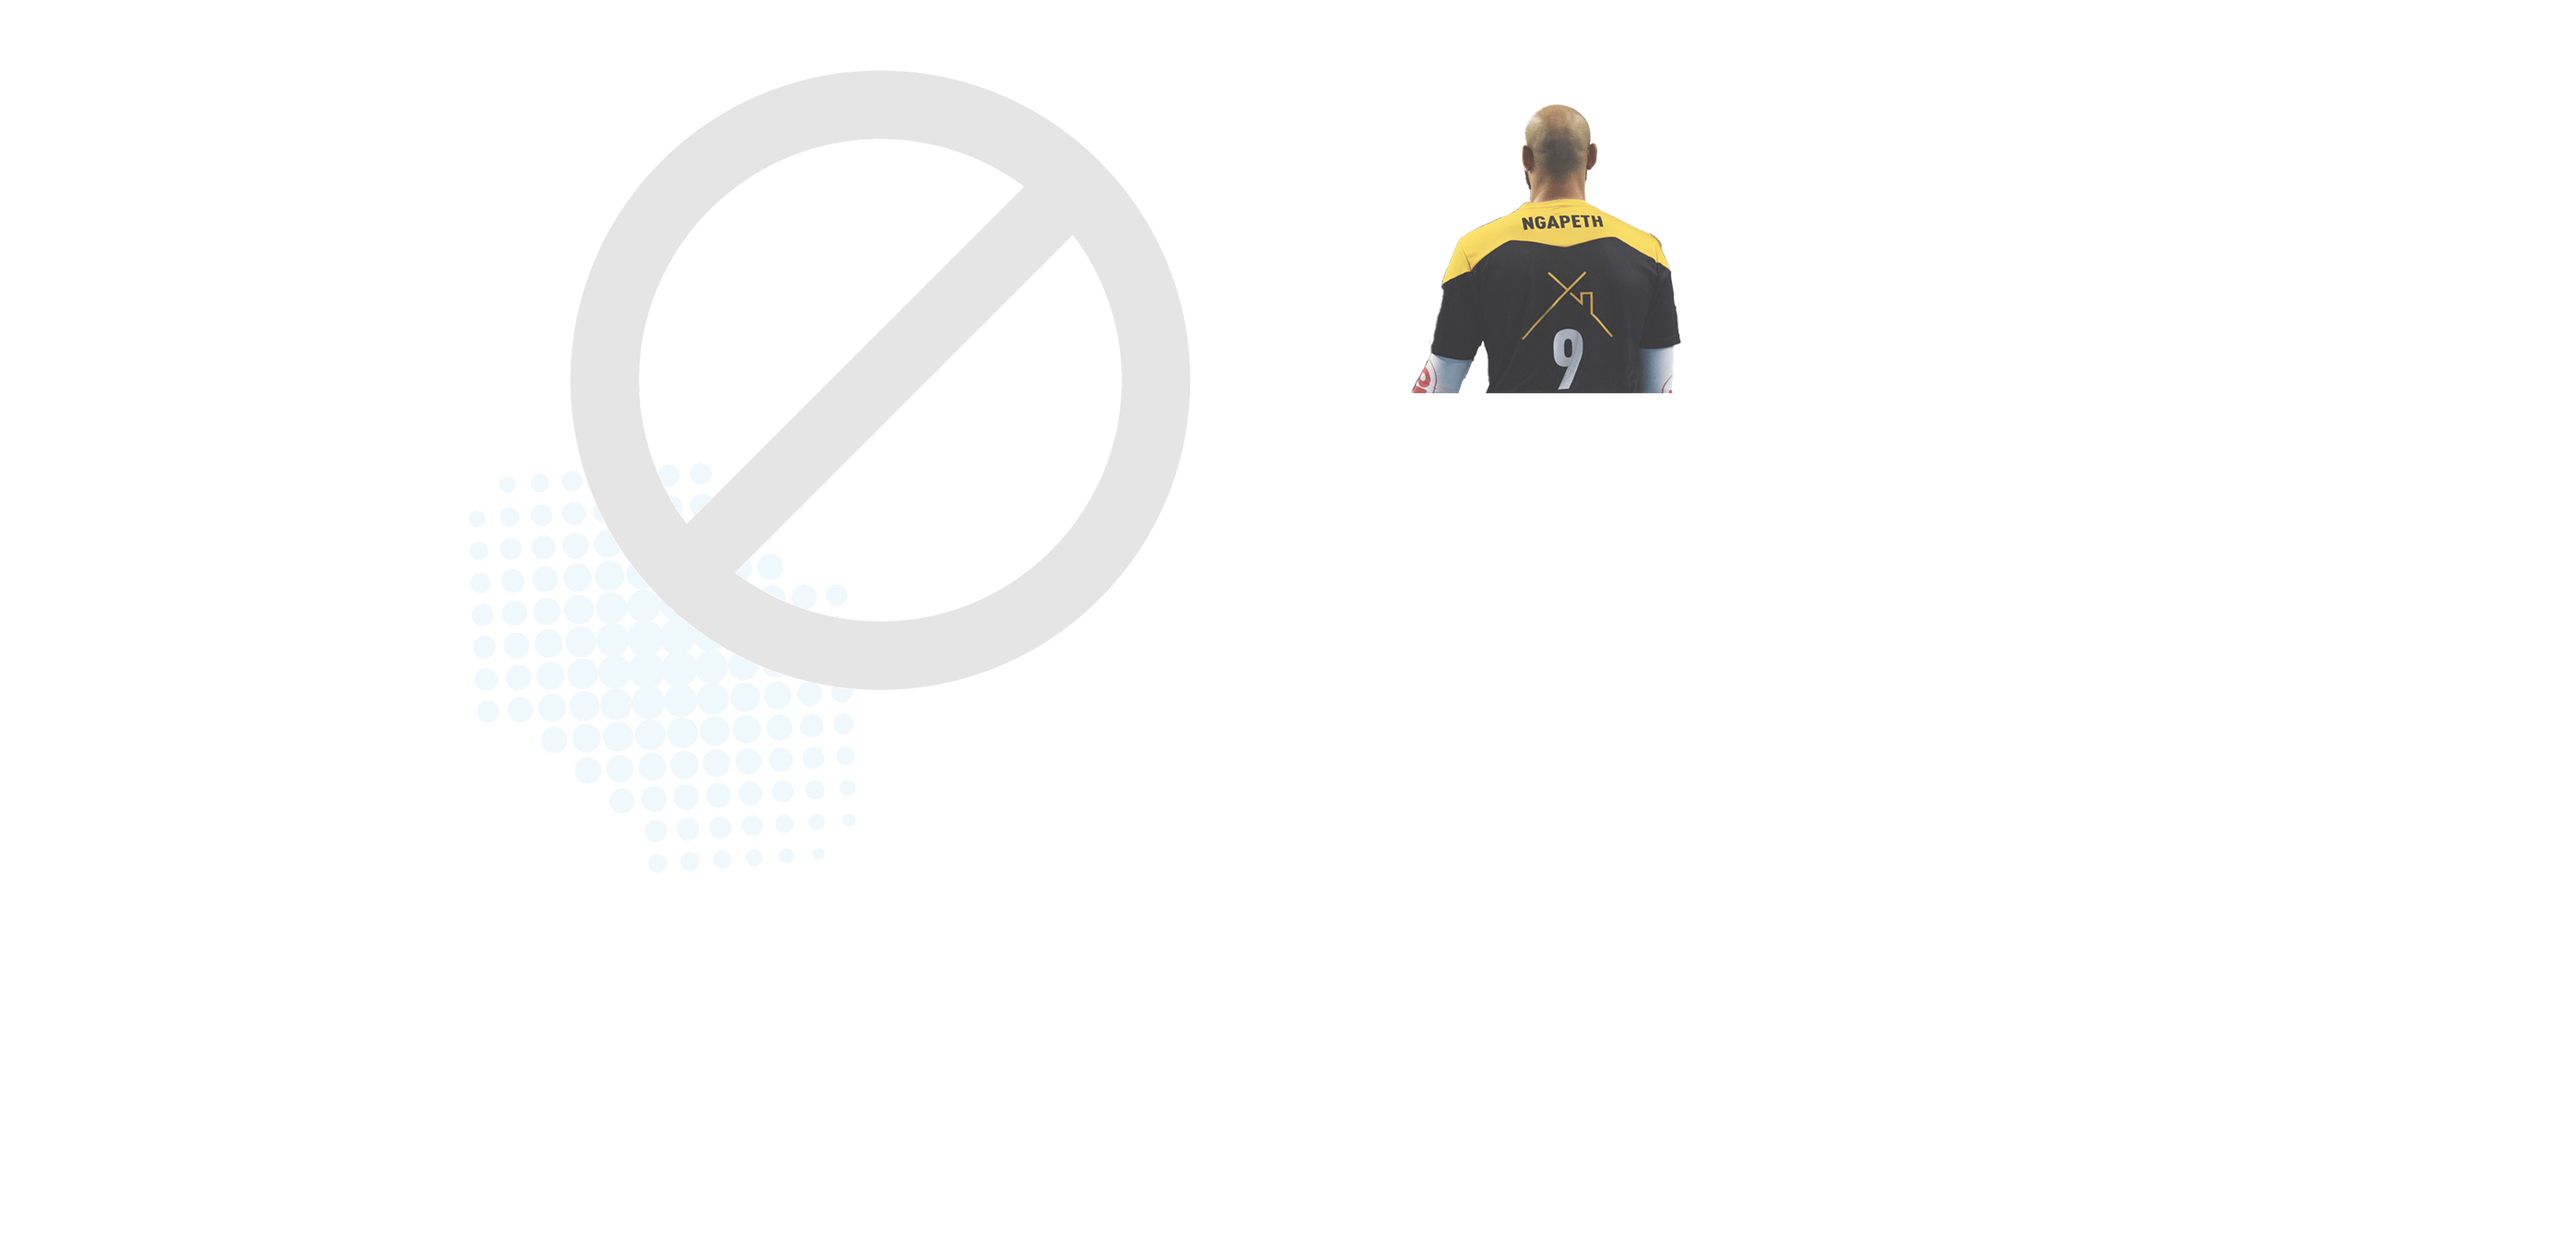
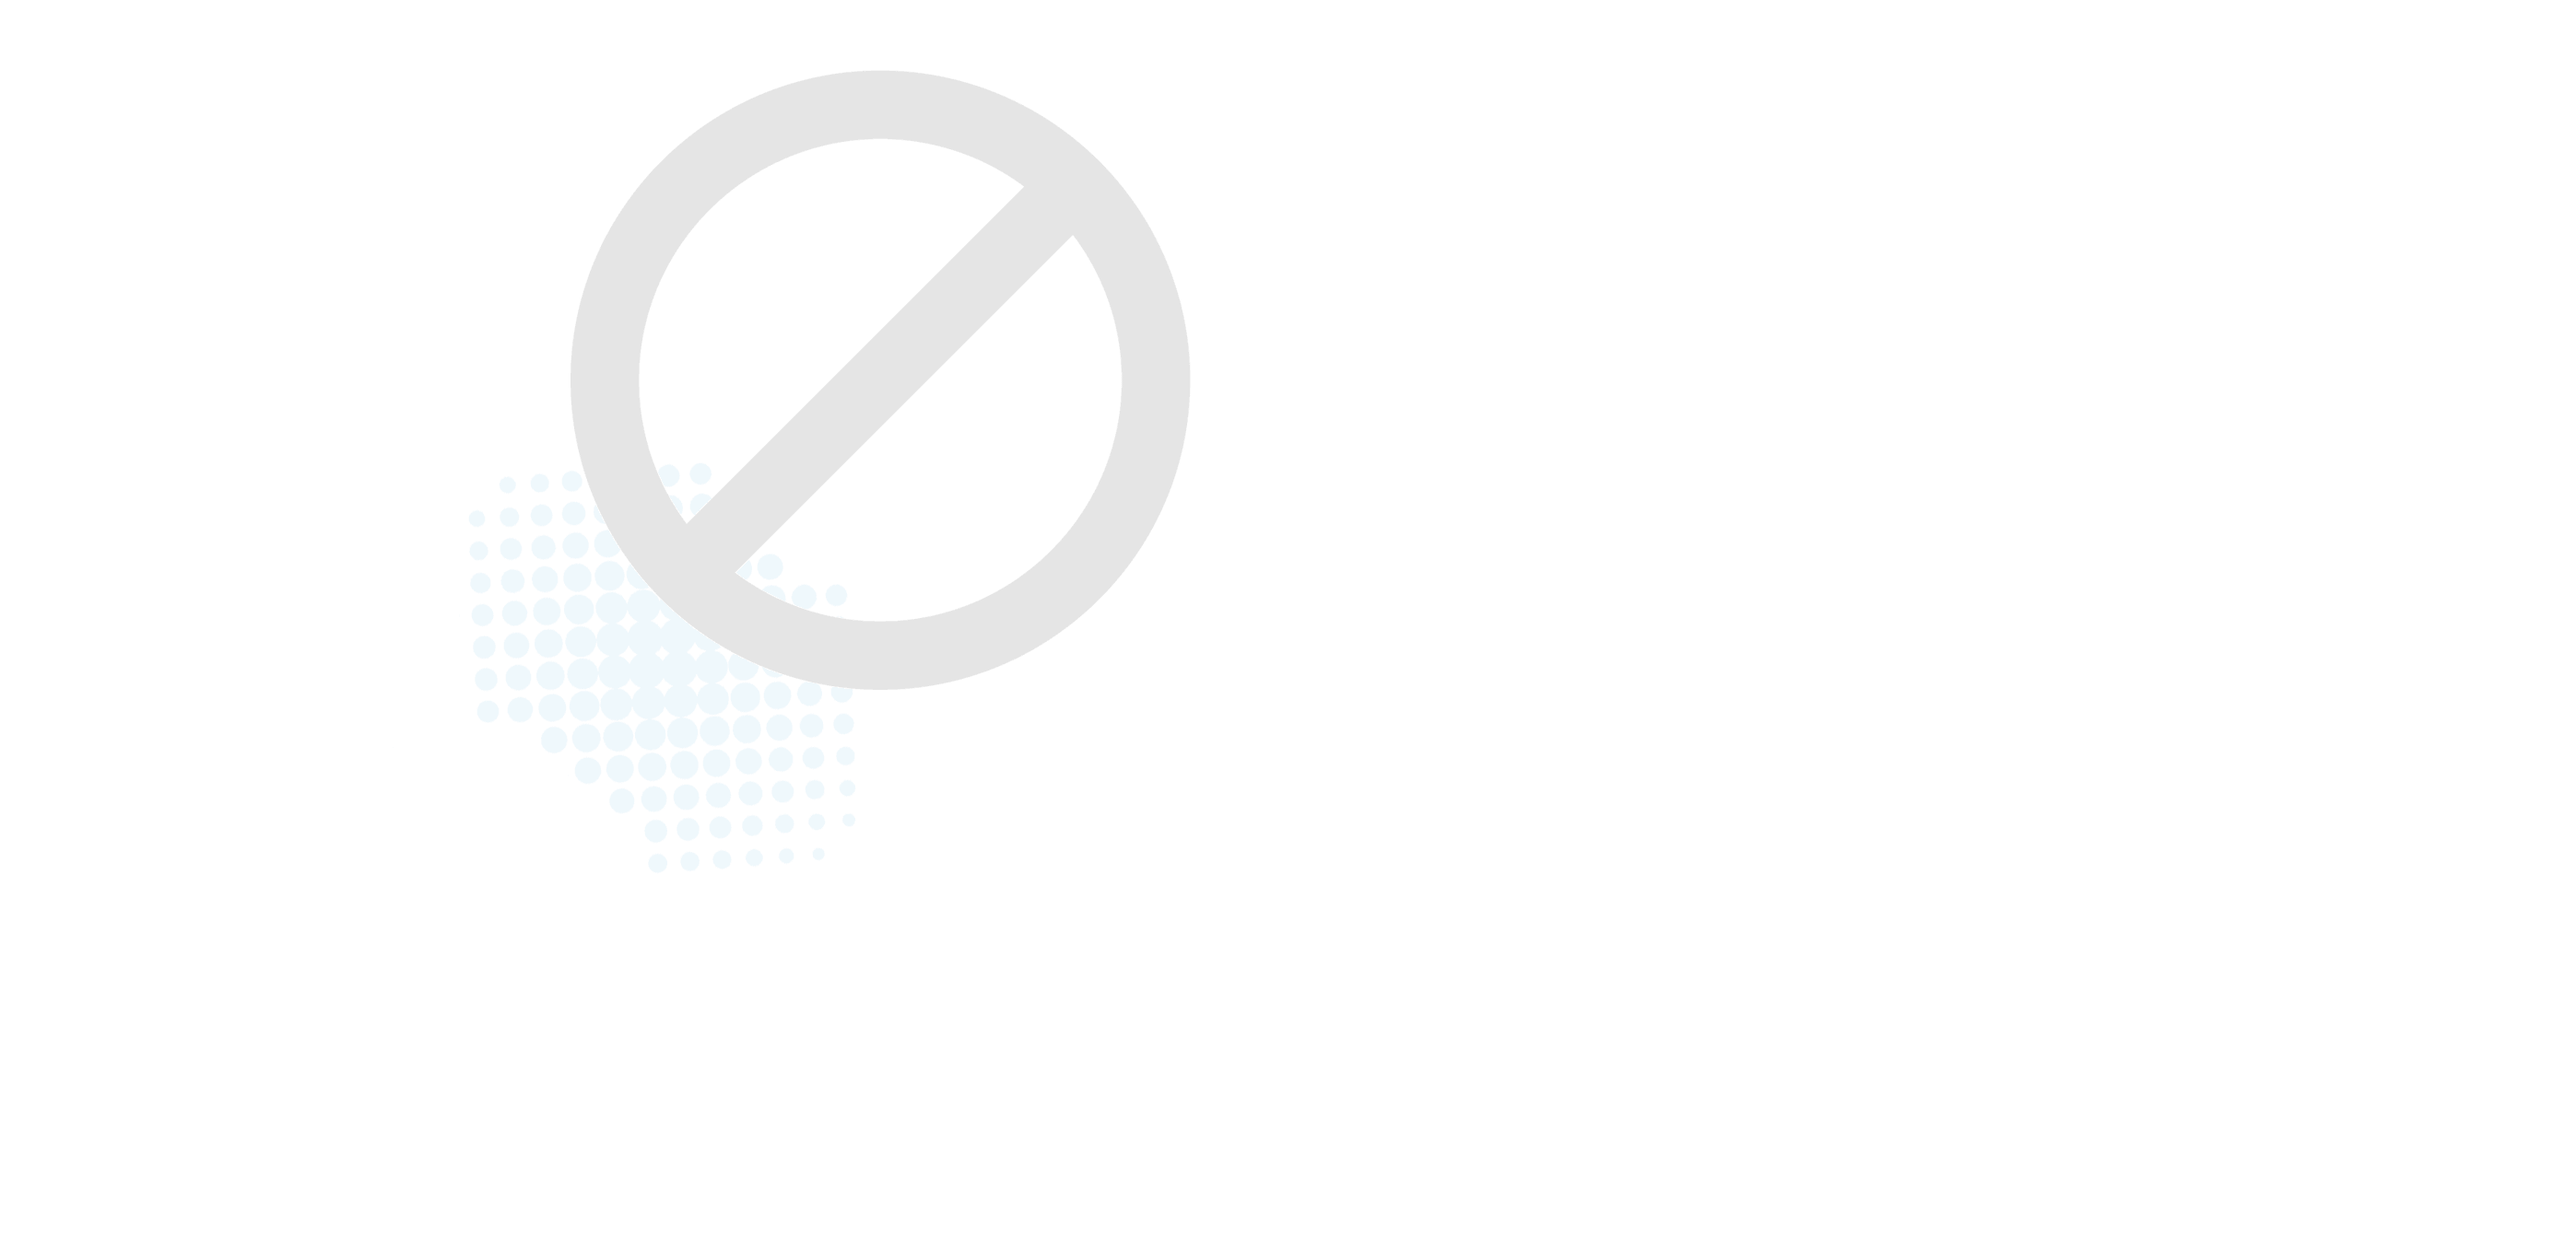
correction responsive

Changed region(s): [[0.5292, 0.0614, 0.6537, 0.3377]]

diff --git a/src/components/Board/Board.js b/src/components/Board/Board.js
@@ -112,7 +112,7 @@ export default class Board extends Component {
                 </div>
                 <div className="Board__slide Board__slide--bottom">
                     <Element name="ngapeth.png"></Element>
-                    <Element name="ngapeth2.png" index="p2"></Element>
+                    <Element name="ngapeth2.png" index="p1"></Element>
                     <Edito content={this.props.datas.text[1].zone_5} positionBottom="55%"></Edito>
                 </div>
                 <div className="Board__slide">
@@ -235,11 +235,11 @@ export default class Board extends Component {
                     <Edito content={this.props.datas.text[2].zone_5} positionTop="40%"></Edito>
                     <Element name="AP-CHAP04-FOND.png" index="m2"></Element>
                 </div>
-                <div className="Board__slide Board__slide--middle">
+                <div className="Board__slide js-board-doubleslide">
                     <Edito content={this.props.datas.text[2].zone_6}></Edito>
                     <Element name="AP-CHAP04-FOND2.png" index="m1"></Element>
                 </div>
-                <div className="Board__slide js-board-doubleslide">
+                <div className="Board__slide">
                     <Skew position="left" bg="OURS.png"></Skew>
                 </div>
                 <div className="Board__slide">
